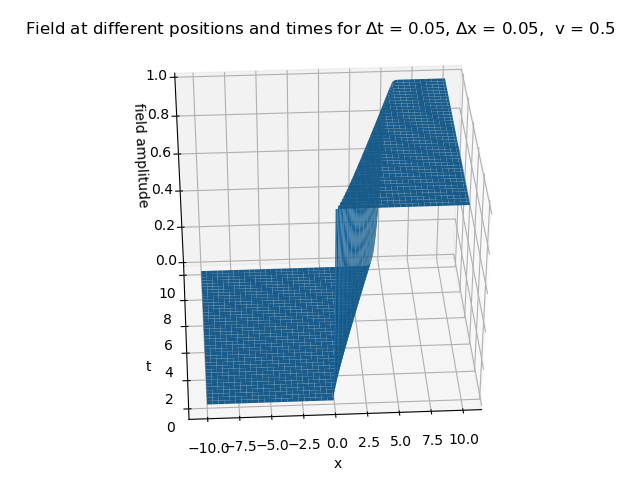
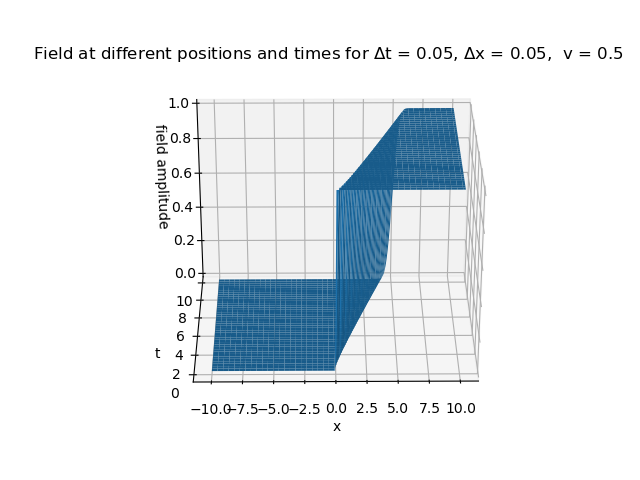
advection equation finally done

Changed region(s): [[0.0312, 0.0312, 0.9688, 0.9688], [0.9062, 0.0312, 0.9688, 0.0625], [0.25, 0.875, 0.2812, 0.9062]]

diff --git a/3-PDE/advection/problem5.py b/3-PDE/advection/problem5.py
@@ -16,7 +16,7 @@ from mpl_toolkits.mplot3d import Axes3D
 L = 10
 hx = 0.05
 ht = 0.05
-v = 1
+v = 0.5
 
 # initial conditions specfied by
 phi = lambda y : 0*(y<0) + 0.5*(y==0) + 1*(y>0)
@@ -93,17 +93,17 @@ def field(x, f, k) :
 def animate(k) :
     return field(x, u[k], k)
 
-fig, ax = plt.subplots()
-anim = animation.FuncAnimation(fig, animate, interval=200, frames=200, repeat=False)
-anim.save("advection_equation_solution_step-function_v_1.gif", writer='imagemagick', fps=10)
+# fig, ax = plt.subplots()
+# anim = animation.FuncAnimation(fig, animate, interval=200, frames=200, repeat=False)
+# anim.save("advection_equation_solution_step-function_v_1.gif", writer='imagemagick', fps=10)
 
-# fig = plt.figure() 
-# ax = fig.add_subplot(111, projection='3d')
-# space, time = np.meshgrid(x, t)
-# # ax.plot3D(space, time, u[0], '-k')
-# ax.plot_surface(space, time, u)
-# ax.set_title(r"Field at different positions and times for $\Delta$t = {dt}, $\Delta$x = {dx},  v = {vel}".format(dt=ht, dx=hx, vel=v)+"\n")
-# ax.set_xlabel('x')
-# ax.set_ylabel('t')
-# ax.set_zlabel('field amplitude')
-# plt.show()
+fig = plt.figure() 
+ax = fig.add_subplot(111, projection='3d')
+space, time = np.meshgrid(x, t)
+# ax.plot3D(space, time, u[0], '-k')
+ax.plot_surface(space, time, u)
+ax.set_title(r"Field at different positions and times for $\Delta$t = {dt}, $\Delta$x = {dx},  v = {vel}".format(dt=ht, dx=hx, vel=v)+"\n")
+ax.set_xlabel('x')
+ax.set_ylabel('t')
+ax.set_zlabel('field amplitude')
+plt.show()
